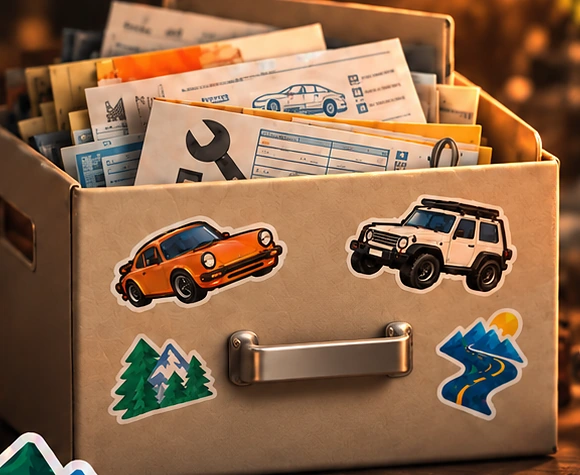
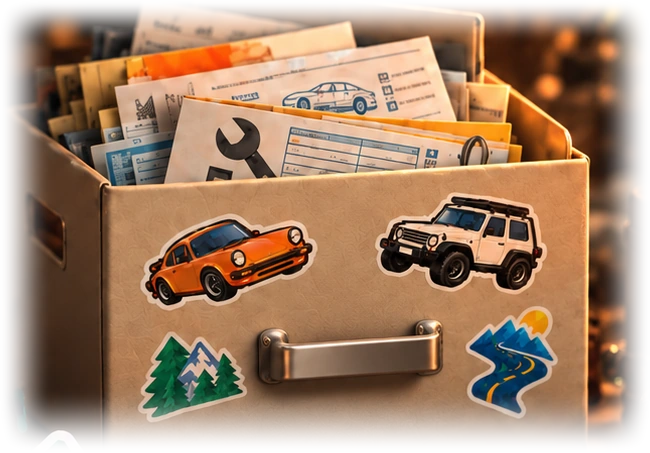
Keep Garage box scene fully visible
Use the same approved Garage box art with feathered transparent edges, keep the visual fully inside the hero on desktop/tablet, preserve the glow, and continue hiding it below 760px.

diff --git a/src/styles/garage.css b/src/styles/garage.css
@@ -131,44 +131,38 @@ body.garage-site::before {
 .garage-hero-visual {
   position: absolute;
   z-index: 1;
-  inset: 6% -5% 2% 40%;
+  inset: 5% 1.5% 3% 42%;
   display: grid;
-  place-items: center;
+  place-items: center end;
+  min-width: 0;
   pointer-events: none;
 }
 .garage-hero-visual::before {
   content: "";
   position: absolute;
-  inset: 7% 4% 3% 6%;
+  inset: 10% 8% 8% 2%;
   z-index: -2;
-  background: linear-gradient(90deg, #11100e 0%, rgba(17,16,14,.72) 16%, transparent 38%);
+  background: linear-gradient(90deg, #11100e 0%, rgba(17,16,14,.6) 13%, transparent 34%);
   pointer-events: none;
 }
 .garage-hero-visual-glow {
   position: absolute;
   z-index: -1;
-  width: min(700px, 76%);
+  width: min(650px, 72%);
   aspect-ratio: 1;
   border-radius: 50%;
   background: radial-gradient(circle, rgba(232,111,47,.23), rgba(232,111,47,.075) 46%, transparent 72%);
   filter: blur(40px);
-  transform: translate(8%, 3%);
+  transform: translate(4%, 2%);
 }
 .garage-hero-visual img {
-  width: min(800px, 72vw);
-  max-width: none;
+  width: min(700px, 54vw);
+  max-width: 100%;
+  max-height: 78vh;
   height: auto;
   object-fit: contain;
-  transform: rotate(-.45deg) translate(6%, 2%);
+  transform: rotate(-.35deg);
   filter: drop-shadow(0 38px 72px rgba(45,28,14,.24));
-  -webkit-mask-image:
-    linear-gradient(90deg, transparent 0%, #000 12%, #000 92%, transparent 100%),
-    linear-gradient(180deg, transparent 0%, #000 9%, #000 91%, transparent 100%);
-  -webkit-mask-composite: source-in;
-  mask-image:
-    linear-gradient(90deg, transparent 0%, #000 12%, #000 92%, transparent 100%),
-    linear-gradient(180deg, transparent 0%, #000 9%, #000 91%, transparent 100%);
-  mask-composite: intersect;
 }
 
 .sticker-art {
@@ -310,8 +304,8 @@ body.garage-site::before {
   .garage-hero { padding-top: 96px; }
   .garage-hero-copy { width: min(640px, 66%); }
   .garage-hero h1 { font-size: clamp(3.9rem, 9.5vw, 6rem); }
-  .garage-hero-visual { inset: 10% -13% 4% 46%; opacity: .92; }
-  .garage-hero-visual img { width: min(650px, 68vw); }
+  .garage-hero-visual { inset: 9% 1% 5% 46%; opacity: .92; }
+  .garage-hero-visual img { width: min(560px, 54vw); max-width: 100%; }
   .sticker-features { right: -12px; top: 12px; }
   .sticker-screens { right: -12px; }
   .sticker-support { right: 180px; }
